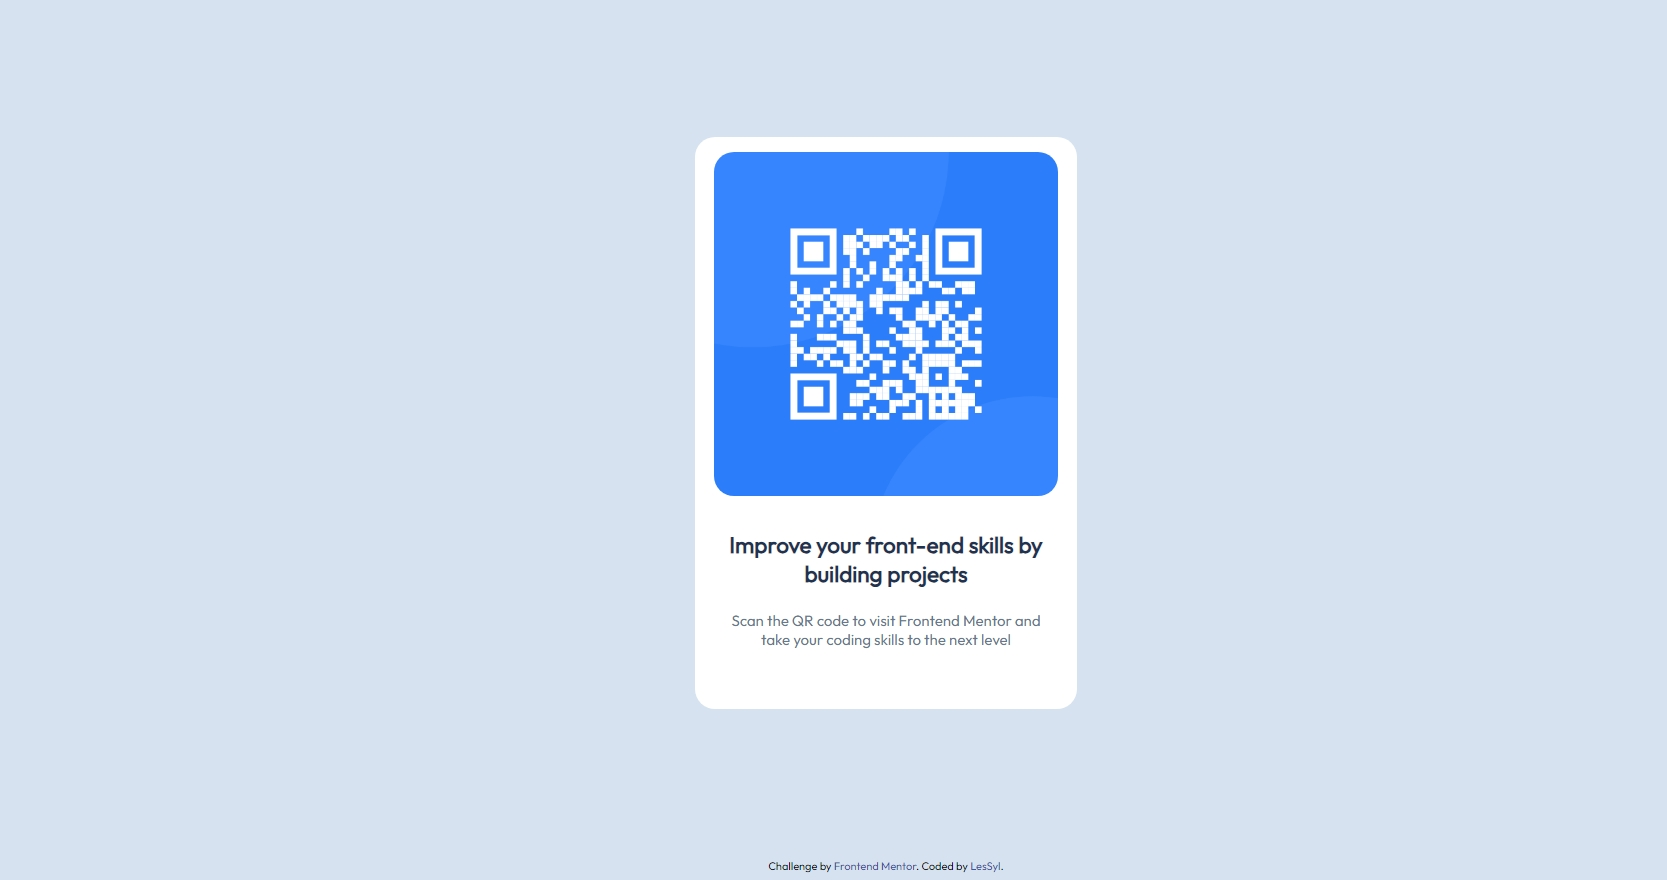
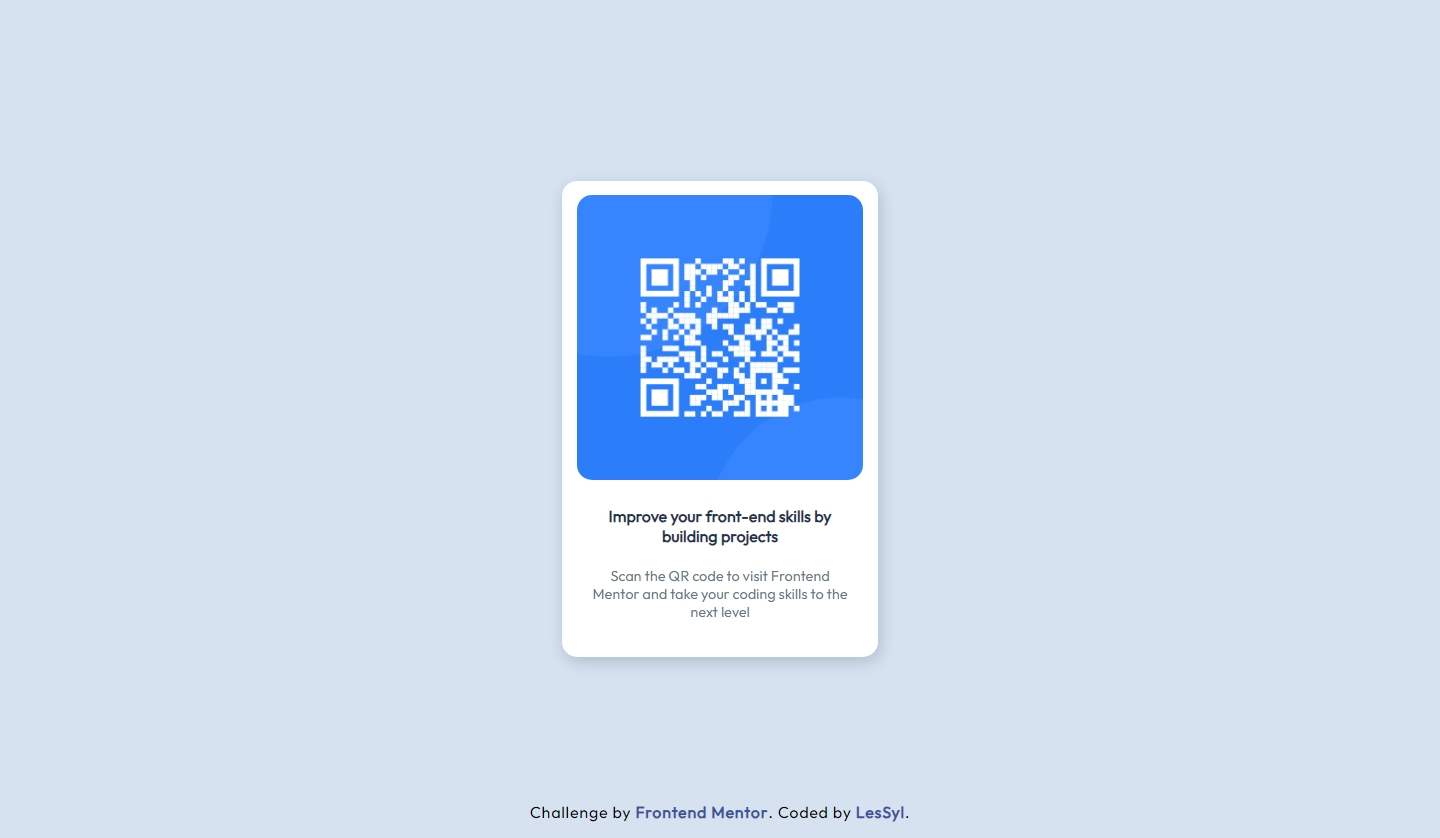
changed font size and block-name in sass, added min-height in body

Changed region(s): [[0.375, 0.1551, 0.6562, 0.8067], [0.375, 0.9618, 0.625, 0.9928]]

diff --git a/dist/css/main.min.css b/dist/css/main.min.css
@@ -1,2 +1,2 @@
-*{box-sizing:border-box;margin:0;padding:0}html{font-size:62.5%}body{position:relative;display:flex;flex-direction:column;align-items:center;justify-content:center;height:100vh;font-size:1rem;font-family:Outfit,sans-serif;background-color:#d6e2f0}.box{width:80%;text-align:center;background-color:#fff;border:none;border-radius:20px;box-shadow:2px 5px 15px rgba(31,50,81,.2)}.box__img{margin-top:1em;width:90%;border-radius:20px}.box__text{text-align:center;padding:4em 3em}.box__text-h2{color:#1f3251}.box__text-p{padding:4em 0 1em;color:#68778d}.attribution{position:absolute;bottom:0;padding:1.5em;letter-spacing:.05em;font-size:1rem}.attribution__link{font-weight:700;color:#3e52a3;text-decoration:none;cursor:pointer;transition:color .5s}.attribution__link:hover{color:#000}@media (min-width:520px){.box{width:60%}}@media (min-width:768px){.box{width:40%}}@media (min-width:992px){.box{width:30%}}@media (min-width:1200px){.box{width:25%}}@media (min-width:1400px){.box{width:18%}}
[1 lines of base64/hex data omitted]
+*{box-sizing:border-box;margin:0;padding:0}body{position:relative;display:flex;flex-direction:column;align-items:center;justify-content:center;min-height:100vh;font-size:.9rem;font-family:Outfit,sans-serif;background-color:#d6e2f0}.qr-code-box{width:75%;text-align:center;background-color:#fff;border:none;border-radius:15px;box-shadow:2px 5px 15px rgba(31,50,81,.2)}.qr-code-box__img{margin-top:1em;width:90%;border-radius:15px}.qr-code-box__text{text-align:center;padding:1em}.qr-code-box__text-heading{font-size:.9rem;color:#1f3251}.qr-code-box__text-description{padding:1.5em .3em 1em;color:#68778d}.attribution{position:absolute;bottom:0;margin-bottom:1em;letter-spacing:.05em;font-size:.7rem}.attribution__link{font-weight:700;color:#3e52a3;text-decoration:none;cursor:pointer;transition:color .5s}.attribution__link:hover{color:#000}@media (min-width:375px){.qr-code-box{width:80%}}@media (min-width:450px){.qr-code-box{width:60%}}@media (min-width:768px){.qr-code-box{width:40%}.qr-code-box__text{padding:1.5em}.attribution,.qr-code-box__text-heading{font-size:1rem}}@media (min-width:992px){.qr-code-box{width:30%}}@media (min-width:1200px){.qr-code-box{width:25%}}@media (min-width:1400px){.qr-code-box{width:22%}}
[1 lines of base64/hex data omitted]

diff --git a/src/sass/main.scss b/src/sass/main.scss
@@ -5,9 +5,6 @@
 	margin: 0;
 	padding: 0;
 }
-html {
-	font-size: 62.5%;
-}
 
 body {
 	position: relative;
@@ -15,44 +12,45 @@ body {
 	flex-direction: column;
 	align-items: center;
 	justify-content: center;
-	height: 100vh;
-	font-size: 1rem;
+	min-height: 100vh;
+	font-size: 0.9rem;
 	font-family: 'Outfit', sans-serif;
 	background-color: $background-color;
 }
 
-.box {
-	width: 80%;
+.qr-code-box {
+	width: 75%;
 	text-align: center;
 	background-color: $base-color;
 	border: none;
-	border-radius: 20px;
+	border-radius: 15px;
 	box-shadow: 2px 5px 15px $border-color;
 
 	&__img {
 		margin-top: 1em;
 		width: 90%;
-		border-radius: 20px;
+		border-radius: 15px;
 	}
 	&__text {
 		text-align: center;
-		padding: 4em 3em;
-	
-		&-h2{
-			color: $h2-color;
+		padding: 1em;
+
+		&-heading {
+			font-size: 0.9rem;
+			color: $heading-color;
 		}
-		&-p{
-			padding: 4em 0 1em 0;
-			color: $p-color;
+		&-description {
+			padding: 1.5em 0.3em 1em;
+			color: $description-color;
 		}
 	}
 }
 .attribution {
 	position: absolute;
 	bottom: 0;
-	padding: 1.5em;
-	letter-spacing: .05em;
-	font-size: 1rem;
+	margin-bottom: 1em;
+	letter-spacing: 0.05em;
+	font-size: 0.7rem;
 	&__link {
 		font-weight: bold;
 		color: $link-color;
@@ -65,33 +63,45 @@ body {
 	}
 }
 
-
 ///////////////////// MEDIA//////////////////////////
-/// 
+///
 
-@media (min-width: 520px){
-	.box{
+@media (min-width: 375px) {
+	.qr-code-box {
+		width: 80%;
+	}
+}
+@media (min-width: 450px) {
+	.qr-code-box {
 		width: 60%;
-		}
+	}
 }
-
-@media (min-width: 768px){
-	.box{
+@media (min-width: 768px) {
+	.qr-code-box {
 		width: 40%;
+		&__text {
+			padding: 1.5em;
+			&-heading {
+				font-size: 1rem;
+			}
 		}
+	}
+	.attribution{
+		font-size: 1rem;
+	}
 }
-@media (min-width: 992px){
-	.box{
+@media (min-width: 992px) {
+	.qr-code-box {
 		width: 30%;
 	}
 }
-@media (min-width: 1200px){
-	.box{
+@media (min-width: 1200px) {
+	.qr-code-box {
 		width: 25%;
 	}
 }
-@media (min-width: 1400px){
-	.box{
-		width: 18%;
+@media (min-width: 1400px) {
+	.qr-code-box {
+		width: 22%;
 	}
 }

diff --git a/index.html b/index.html
@@ -4,12 +4,9 @@
 <head>
     <meta charset="UTF-8">
     <meta name="viewport" content="width=device-width, initial-scale=1.0">
-    <title>QR Code</title>
     <!-- displays site properly based on user's device -->
-
-    <link rel="icon" type="image/png" sizes="32x32" href="images/favicon-32x32.png">
-
     <title>Frontend Mentor | QR code component</title>
+    <!-- <link rel="icon" type="image/png" sizes="32x32" href="images/favicon-32x32.png"> -->
     <link rel="preconnect" href="https://fonts.googleapis.com">
     <link rel="preconnect" href="https://fonts.gstatic.com" crossorigin>
     <link href="https://fonts.googleapis.com/css2?family=Outfit&display=swap" rel="stylesheet">
@@ -18,11 +15,11 @@
 
 <body>
 
-    <main class="box">
-        <img src="dist/img/image-qr-code.png" alt="qr code" class="box__img">
-        <div class="box__text">
-            <h2 class="box__text-h2">Improve your front-end skills by building projects</h2>
-            <p class="box__text-p">Scan the QR code to visit Frontend Mentor and take your coding skills to the next
+    <main class="qr-code-box">
+        <img src="dist/img/image-qr-code.png" alt="qr code to Frontendmentor.io" class="qr-code-box__img">
+        <div class="qr-code-box__text">
+            <h1 class="qr-code-box__text-heading">Improve your front-end skills by building projects</h1>
+            <p class="qr-code-box__text-description">Scan the QR code to visit Frontend Mentor and take your coding skills to the next
                 level</p>
         </div>
     </main>

diff --git a/src/sass/_colors.scss b/src/sass/_colors.scss
@@ -2,6 +2,6 @@ $base-color: hsl(0, 0%, 100%);
 $background-color: hsl(212, 45%, 89%);
 $link-color:hsl(228, 45%, 44%);
 $link-hover-color:hsl(0, 0%, 0%);
-$p-color: hsl(216, 15%, 48%);
-$h2-color: hsl(218, 44%, 22%);
+$description-color: hsl(216, 15%, 48%);
+$heading-color: hsl(218, 44%, 22%);
 $border-color: hsla(217, 45%, 22%, 0.2);

diff --git a/README.md b/README.md
@@ -25,9 +25,9 @@ Mobile
 
 ### Links
 
-- Repository URL:[https://github.com/LesSyl/Qr-code](https://github.com/LesSyl/Qr-code)
-- Solution URL: [Add solution URL here](https://your-solution-url.com)
-- Live Site URL: [Add live site URL here](https://your-live-site-url.com)
+- Repository URL:[https://github.com/LesSyl/Qr-code]()
+- Solution URL: [https://www.frontendmentor.io/solutions/challenge-qr-code-using-mobile-first-solution-sass-bem-and-flexbox-RtssM3txyY]()
+- Live Site URL: [https://lessyl.github.io/Qr-code/]()
 
 ## My process
 
@@ -41,7 +41,7 @@ Mobile
 
 ### What I learned
 
-Above all, I learned how to use the frontendmentor. It was a project through which I practised writing code in html and sass.
+Above all, I learned how to use the frontendmentor. It was a project through which I practised writing code in html and sass. I remembered the basic rules of code writing.
 
 ## Author
 
